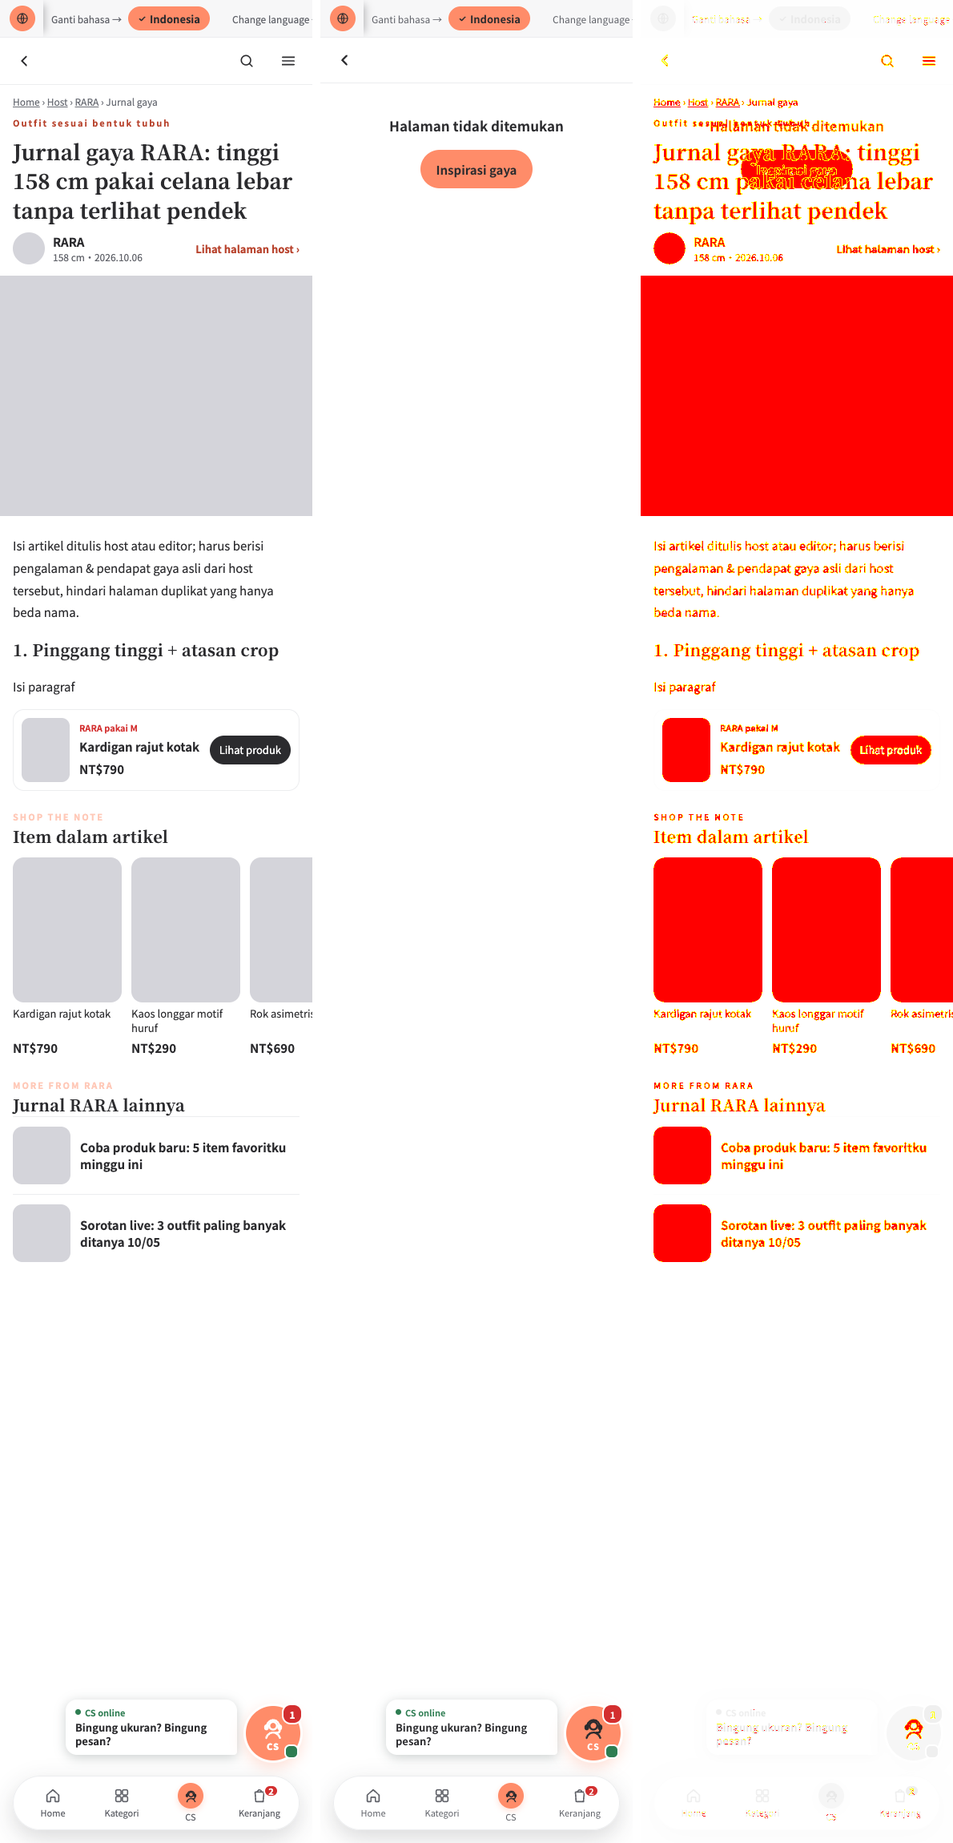
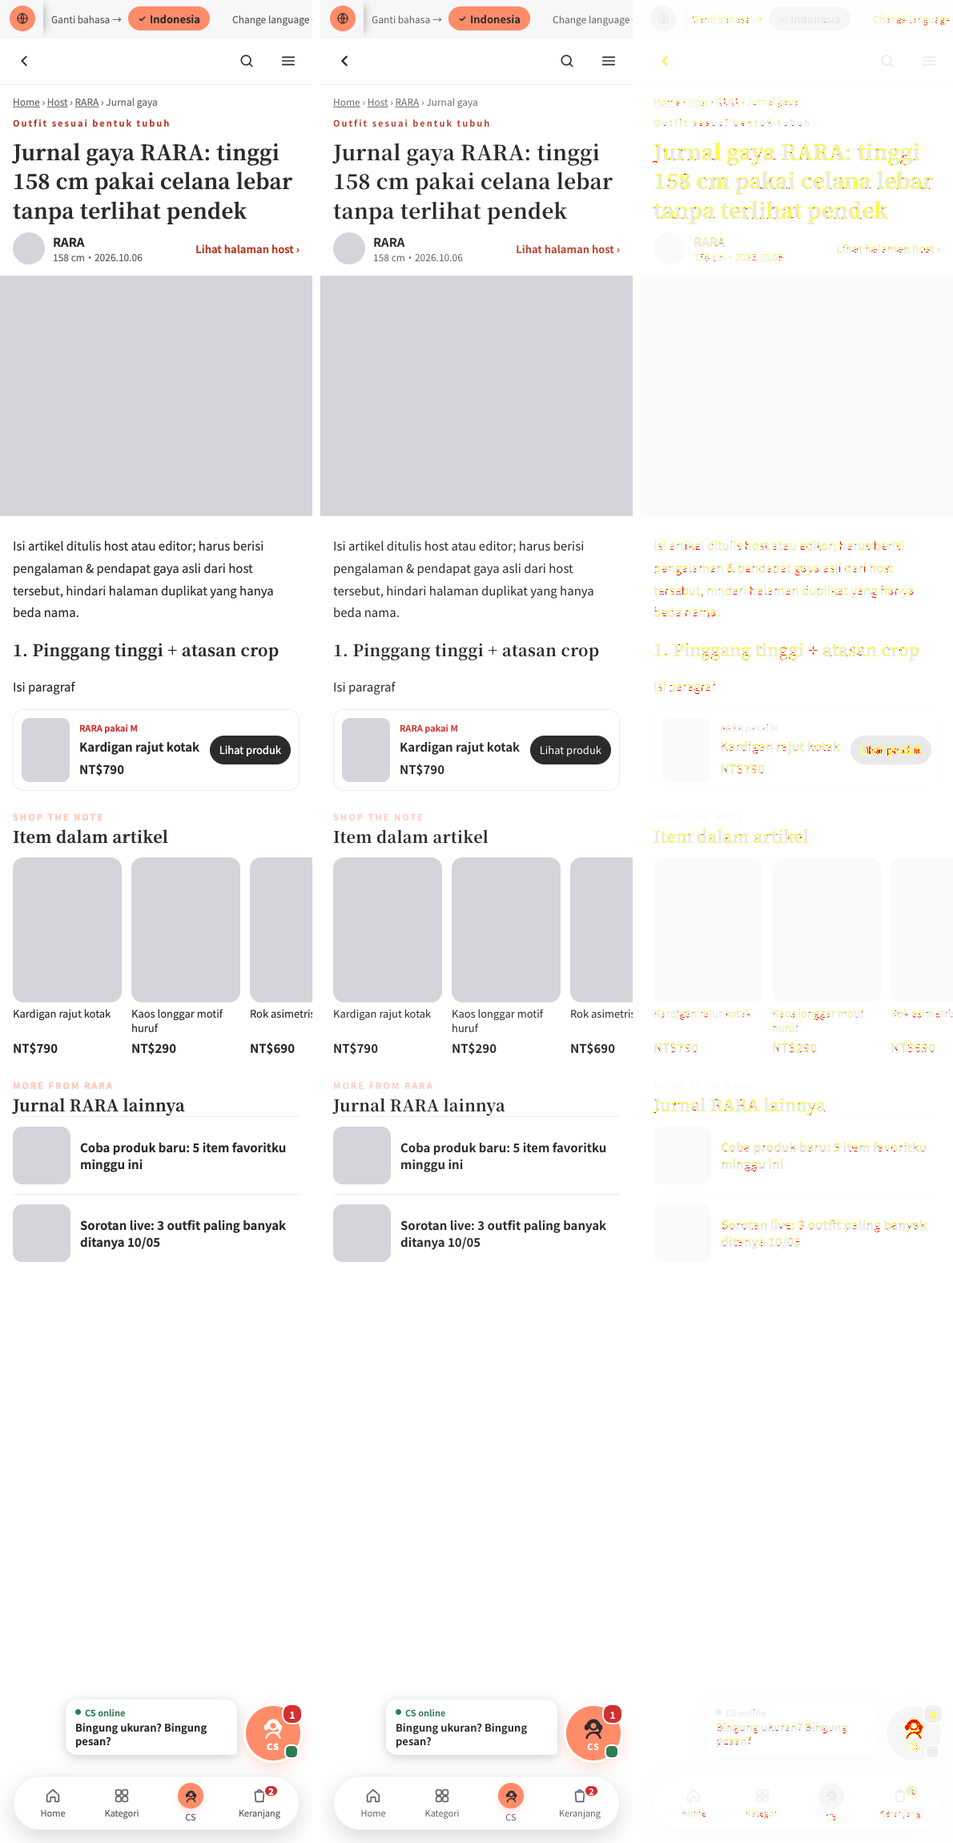
storefront

diff --git a/storefront/src/pages/Content.jsx b/storefront/src/pages/Content.jsx
@@ -11,7 +11,7 @@ import { ProductCard, StripCard } from '../components/ProductCard'
 import { EmptyState, ErrorState, iconBtn, PageHeader, SectionHead, Skeleton, btnPrimary } from '../components/ui'
 
 // Topic / article / host-journal page (artboards Topic / Article). Body = blocks {type: h2|h3|p|list|image|product|products|tags}.
-function Blocks({ blocks, products, topic, toc }) {
+function Blocks({ blocks, products, topic, toc, hostName }) {
   const { t } = useTranslation()
   const byId = Object.fromEntries(products.map((p) => [p.id, p]))
   let tocDone = false
@@ -19,7 +19,7 @@ function Blocks({ blocks, products, topic, toc }) {
     <>
       {blocks.map((b, i) => {
         const out = []
-        if (b.type === 'h2') out.push(<h2 key={i} id={`s${i}`} style={{ margin: topic ? 0 : '8px 0 0', fontSize: 20, fontWeight: 700 }}>{b.text}</h2>)
+        if (b.type === 'h2') out.push(<h2 key={i} id={`s${i}`} style={{ margin: topic || hostName ? 0 : '8px 0 0', fontSize: 20, fontWeight: 700, lineHeight: hostName ? 1.85 : undefined }}>{b.text}</h2>)
         else if (b.type === 'h3') out.push(<h3 key={i} style={{ margin: '8px 0 0', fontSize: 17 }}>{b.text}</h3>)
         else if (b.type === 'list') out.push(<ul key={i} style={{ margin: 0, paddingLeft: 20, lineHeight: 1.9 }}>{(b.items || []).map((x) => <li key={x}>{x}</li>)}</ul>)
         else if (b.type === 'image') out.push(
@@ -30,13 +30,13 @@ function Blocks({ blocks, products, topic, toc }) {
         else if (b.type === 'product' && byId[b.product_id]) {
           const p = byId[b.product_id]
           out.push(
-            <Link key={i} to={`/p/${p.id}`} style={{ display: 'flex', gap: 12, alignItems: 'center', padding: 10, borderRadius: 14, background: 'var(--color-surface)', border: '1px solid var(--color-border)', textDecoration: 'none', color: 'var(--color-text)' }}>
-              <img src={sized(img(p.image), 160)} alt={p.name} loading="lazy" onError={onImgError} style={{ width: 64, height: 84, borderRadius: 10, objectFit: 'cover' }} />
-              <span style={{ flex: 1, display: 'flex', flexDirection: 'column', gap: 3 }}>
-                <span style={{ fontSize: 11, color: 'var(--color-live)', fontWeight: 700 }}>{p.live_code ? t('product.live_code_badge', { code: p.live_code }) : t('style.shop_note')}</span>
+            <Link key={i} to={`/p/${p.id}`} style={{ lineHeight: hostName ? 1.85 : undefined, display: 'flex', gap: 12, alignItems: 'center', padding: 10, borderRadius: 14, background: 'var(--color-surface)', border: '1px solid var(--color-border)', textDecoration: 'none', color: 'var(--color-text)' }}>
+              <img src={sized(img(p.image), 160)} alt={hostName ? '' : p.name} loading="lazy" onError={onImgError} style={hostName ? { width: 60, height: 80, borderRadius: 10, objectFit: 'cover' } : { width: 64, height: 84, borderRadius: 10, objectFit: 'cover' }} />
+              <span style={{ flex: 1, display: 'flex', flexDirection: 'column', gap: hostName ? 0 : 3 }}>
+                <span style={{ fontSize: 11, color: 'var(--color-live)', fontWeight: 700 }}>{p.wear_size && hostName ? t('style.wears', { name: hostName, size: p.wear_size }) : p.live_code ? t('product.live_code_badge', { code: p.live_code }) : t('style.shop_note')}</span>
                 <b style={{ fontSize: 15 }}>{p.name}</b><span style={{ fontSize: 15, fontWeight: 700 }}>NT${Math.round(p.price).toLocaleString('en-US')}</span>
               </span>
-              <span style={{ flex: 'none', height: 36, padding: '0 14px', borderRadius: 18, background: 'var(--color-text)', color: '#FFFFFF', fontSize: 13, fontWeight: 700, display: 'flex', alignItems: 'center' }}>{t('style.view_product')}</span>
+              <span style={{ flex: 'none', ...(hostName ? { minHeight: 36, padding: '0 12px' } : { height: 36, padding: '0 14px', fontWeight: 700 }), borderRadius: 18, background: 'var(--color-text)', color: '#FFFFFF', fontSize: 13, display: 'flex', alignItems: 'center' }}>{t('style.view_product')}</span>
             </Link>)
         } else if (b.type === 'tags') out.push(<div key={i} style={{ display: 'flex', flexWrap: 'wrap', gap: 8, paddingTop: 4 }}>{(b.items || []).map((x) => <span key={x} style={tagPill}>#{x}</span>)}</div>)
         else out.push(<p key={i} style={{ margin: 0, fontSize: 15, lineHeight: 1.85, color: 'var(--color-text)', whiteSpace: 'pre-line' }}>{b.text}</p>)
@@ -81,7 +81,7 @@ export default function Content() {
   const href = (c) => (c.type === 'host_article' ? `/hosts/${c.author_slug}/journal/${c.slug}` : `/style/${c.slug}`)
   const dateDots = (iso) => fullDate(iso).replace(/\//g, '.')
   const isSaved = saved.has(page.slug)
-  const right = topic
+  const right = topic || hostArt
     ? <><Link to="/search" aria-label={t('common.search')} style={iconBtn}><IconSearch size={20} /></Link><Link to="/menu" aria-label={t('menu.title')} style={iconBtn}><IconMenu /></Link></>
     : <>
         <button type="button" aria-label={t('style.share')} onClick={() => navigator.share?.({ title: page.title, url: window.location.href }).catch(() => {})} style={{ ...iconBtn, border: 'none', background: 'none' }}><IconShare size={20} /></button>
@@ -89,19 +89,25 @@ export default function Content() {
       </>
   const eyebrowColor = topic ? 'var(--color-primary-strong)' : 'var(--color-secondary)'
   const catLine = (
-    <nav aria-label="Breadcrumb" style={{ padding: `12px ${px}px 0`, fontSize: 12, color: 'var(--color-disabled)' }}>
-      <Link to="/" style={{ color: 'var(--color-disabled)' }}>{t('style.home')}</Link> › {hostArt ? <Link to={`/hosts/${page.author_slug}`} style={{ color: 'var(--color-disabled)' }}>{page.author}</Link> : <Link to="/style" style={{ color: 'var(--color-disabled)' }}>{topic ? t('style.style_topics') : t('style.title')}</Link>}
-      {topic ? <> › {page.title.split(':')[0]}</> : <> › <Link to="/style" style={{ color: 'var(--color-disabled)' }}>{page.category_label}</Link></>}
+    <nav aria-label="Breadcrumb" style={{ padding: `12px ${px}px 0`, fontSize: 12, color: hostArt ? 'var(--color-text-3)' : 'var(--color-disabled)' }}>
+      {hostArt ? <><Link to="/" style={{ color: 'var(--color-text-3)' }}>{t('style.home')}</Link> › <Link to="/hosts" style={{ color: 'var(--color-text-3)' }}>{t('style.host')}</Link> › <Link to={`/hosts/${page.author_slug}`} style={{ color: 'var(--color-text-3)' }}>{page.author}</Link> › {t('style.journal')}</> : <><Link to="/" style={{ color: 'var(--color-disabled)' }}>{t('style.home')}</Link> › {hostArt ? <Link to={`/hosts/${page.author_slug}`} style={{ color: 'var(--color-disabled)' }}>{page.author}</Link> : <Link to="/style" style={{ color: 'var(--color-disabled)' }}>{topic ? t('style.style_topics') : t('style.title')}</Link>}
+      {topic ? <> › {page.title.split(':')[0]}</> : <> › <Link to="/style" style={{ color: 'var(--color-disabled)' }}>{page.category_label}</Link></>}</>}
     </nav>
   )
   return (
     <article>
-      {!desktop && <PageHeader title="" to={hostArt ? `/hosts/${page.author_slug}` : '/style'} right={right} height={topic ? 58 : 56} gap={topic ? 8 : 4} />}
+      {!desktop && <PageHeader title="" to={hostArt ? `/hosts/${page.author_slug}` : '/style'} right={right} height={topic || hostArt ? 58 : 56} gap={topic || hostArt ? 8 : 4} />}
       {catLine}
-      <header style={{ padding: `10px ${px}px 16px`, display: 'flex', flexDirection: 'column', gap: topic ? 8 : 10, maxWidth: desktop ? 820 : 'none', margin: desktop ? '0 auto' : 0 }}>
-        <span style={{ fontSize: 11, letterSpacing: 2, fontWeight: 700, color: eyebrowColor }}>{topic ? t('style.eyebrow_topic') : page.category_label}</span>
-        <h1 style={{ margin: 0, fontSize: desktop ? 34 : 26, fontWeight: 700, lineHeight: 1.35 }}>{page.title}</h1>
-        {topic
+      <header style={{ padding: `10px ${px}px ${hostArt ? 14 : 16}px`, display: 'flex', flexDirection: 'column', gap: topic ? 8 : 10, maxWidth: desktop ? 820 : 'none', margin: desktop ? '0 auto' : 0 }}>
+        <span style={{ fontSize: 11, letterSpacing: 2, fontWeight: 700, color: hostArt ? 'var(--color-primary-strong)' : eyebrowColor }}>{topic ? t('style.eyebrow_topic') : page.category_label}</span>
+        <h1 style={{ margin: 0, fontSize: desktop ? 34 : 26, fontWeight: 700, lineHeight: hostArt ? 1.4 : 1.35 }}>{page.title}</h1>
+        {hostArt ? (
+          <Link to={`/hosts/${page.author_slug}`} style={{ display: 'flex', alignItems: 'center', gap: 10, textDecoration: 'none', color: 'var(--color-text)' }}>
+            {d.hosts[0]?.avatar_url && <img src={sized(img(d.hosts[0].avatar_url), 80)} alt="" onError={onImgError} style={{ width: 40, height: 40, borderRadius: 20, objectFit: 'cover', objectPosition: '30% 15%' }} />}
+            <span style={{ display: 'flex', flexDirection: 'column' }}><b style={{ fontSize: 15 }}>{page.author}</b><span style={{ fontSize: 12, color: 'var(--color-text-2)' }}>{d.author_height_cm ? `${d.author_height_cm} cm・` : ''}{dateDots(page.published_at)}</span></span>
+            <span style={{ marginLeft: 'auto', fontSize: 13, fontWeight: 700, color: 'var(--color-primary-strong)' }}>{t('style.host_page')}</span>
+          </Link>
+        ) : topic
           ? <span style={{ fontSize: 12, color: 'var(--color-text-2)' }}>{dateDots(page.published_at)}{page.author ? `・${t('style.by', { name: page.author })}` : ''}{page.read_minutes ? `・${t('style.read_min', { n: page.read_minutes })}` : ''}</span>
           : (
             <div style={{ display: 'flex', alignItems: 'center', gap: 10, fontSize: 12, color: 'var(--color-text-2)' }}>
@@ -110,22 +116,22 @@ export default function Content() {
             </div>
           )}
       </header>
-      {page.cover_url && <img src={sized(img(page.cover_url), 1200)} alt={page.cover_alt || page.title} fetchpriority="high" onError={onImgError} style={{ width: '100%', height: topic ? 280 : 300, objectFit: 'cover', objectPosition: 'center 30%', display: topic ? 'inline' : 'block' }} />}
-      <div style={{ padding: `20px ${px}px 0`, display: 'flex', flexDirection: 'column', gap: 16, maxWidth: desktop ? 820 : 'none', margin: desktop ? '0 auto' : 0 }}>
+      {page.cover_url && <img src={sized(img(page.cover_url), 1200)} alt={page.cover_alt || page.title} fetchpriority="high" onError={onImgError} style={{ width: '100%', height: topic ? 280 : 300, objectFit: 'cover', objectPosition: 'center 30%', display: topic || hostArt ? 'inline' : 'block' }} />}
+      <div style={{ padding: `${hostArt ? 18 : 20}px ${px}px 0`, display: 'flex', flexDirection: 'column', gap: hostArt ? 14 : 16, maxWidth: desktop ? 820 : 'none', margin: desktop ? '0 auto' : 0 }}>
         {page.summary && !d.blocks.length && <p style={{ margin: 0, fontSize: 15, lineHeight: 1.85 }}>{page.summary}</p>}
-        <Blocks blocks={d.blocks} products={d.products} topic={topic} toc={toc} />
+        <Blocks blocks={d.blocks} products={d.products} topic={topic} toc={toc} hostName={hostArt ? page.author : ''} />
         {!topic && page.tags?.length > 0 && !d.blocks.some((b) => b.type === 'tags') && <div style={{ display: 'flex', flexWrap: 'wrap', gap: 8, paddingTop: 4 }}>{page.tags.map((x) => <Link key={x} to="/style" style={tagPill}>#{x}</Link>)}</div>}
       </div>
 
       {d.products.length > 0 && (
-        <section style={{ padding: `28px 0 0` }}>
-          <div style={{ padding: `0 ${px}px ${topic ? 14 : 0}px` }}>
+        <section style={{ padding: `${hostArt ? 24 : 28}px 0 0` }}>
+          <div style={{ padding: `0 ${px}px ${topic ? 14 : hostArt ? 12 : 0}px` }}>
             <div style={{ display: 'flex', alignItems: 'flex-end', justifyContent: 'space-between', gap: 12 }}>
-              <div style={{ display: 'flex', flexDirection: 'column', gap: 2 }}><span style={{ fontSize: 11, letterSpacing: 2, color: 'var(--color-secondary)', fontWeight: 700 }}>{topic ? 'SHOP THE TOPIC' : 'SHOP THE LOOK'}</span><h2 style={{ margin: 0, fontSize: 20, fontWeight: 700 }}>{hostArt ? t('style.shop_note') : topic ? t('style.shop_topic') : t('style.shop_look')}</h2></div>
-              <Link to="/products" style={{ flex: 'none', fontSize: 13, fontWeight: 500, color: 'var(--color-text)', textDecoration: 'none', padding: '6px 12px', border: '1px solid var(--color-border)', borderRadius: 16 }}>{t('style.see_all')}</Link>
+              <div style={{ display: 'flex', flexDirection: 'column', gap: 2 }}><span style={{ fontSize: 11, letterSpacing: 2, color: 'var(--color-secondary)', fontWeight: 700 }}>{hostArt ? 'SHOP THE NOTE' : topic ? 'SHOP THE TOPIC' : 'SHOP THE LOOK'}</span><h2 style={{ margin: 0, fontSize: 20, fontWeight: 700 }}>{hostArt ? t('style.shop_note') : topic ? t('style.shop_topic') : t('style.shop_look')}</h2></div>
+              {!hostArt && <Link to="/products" style={{ flex: 'none', fontSize: 13, fontWeight: 500, color: 'var(--color-text)', textDecoration: 'none', padding: '6px 12px', border: '1px solid var(--color-border)', borderRadius: 16 }}>{t('style.see_all')}</Link>}
             </div>
           </div>
-          {topic
+          {topic || hostArt
             ? <div className="no-scrollbar" style={{ display: 'flex', gap: 12, overflowX: 'auto', padding: `0 ${px}px 4px` }}>{d.products.map((p) => <StripCard key={p.id} p={p} />)}</div>
             : <div style={{ display: 'grid', gridTemplateColumns: `repeat(${desktop ? 5 : 2}, minmax(0, 1fr))`, gap: '16px 12px', padding: `14px ${px}px 0` }}>{d.products.map((p) => <ProductCard key={p.id} p={p} />)}</div>}
         </section>
@@ -143,17 +149,17 @@ export default function Content() {
         </section>
       )}
       {d.related.length > 0 && (
-        <section style={{ padding: `${topic ? 24 : 28}px ${px}px 0` }}>
+        <section style={{ padding: `${topic || hostArt ? 24 : 28}px ${px}px 0` }}>
           {topic
             ? <h2 style={{ margin: '0 0 6px', fontSize: 17, fontWeight: 700 }}>{t('style.other_topics')}</h2>
-            : <div style={{ display: 'flex', alignItems: 'flex-end', justifyContent: 'space-between', gap: 12 }}><div style={{ display: 'flex', flexDirection: 'column', gap: 2 }}><span style={{ fontSize: 11, letterSpacing: 2, color: 'var(--color-secondary)', fontWeight: 700 }}>RELATED</span><h2 style={{ margin: 0, fontSize: 20, fontWeight: 700 }}>{hostArt ? t('style.more_from', { name: page.author }) : t('style.related')}</h2></div></div>}
-          <div style={{ marginTop: topic ? 0 : 8 }}>
+            : <div style={{ display: 'flex', alignItems: 'flex-end', justifyContent: 'space-between', gap: 12 }}><div style={{ display: 'flex', flexDirection: 'column', gap: 2 }}><span style={{ fontSize: 11, letterSpacing: 2, color: 'var(--color-secondary)', fontWeight: 700 }}>{hostArt ? `MORE FROM ${page.author}` : 'RELATED'}</span><h2 style={{ margin: 0, fontSize: 20, fontWeight: 700 }}>{hostArt ? t('style.more_from', { name: page.author }) : t('style.related')}</h2></div></div>}
+          <div style={{ marginTop: topic || hostArt ? 0 : 8 }}>
             {d.related.map((c) => (
               <Link key={c.id} to={href(c)} style={{ display: 'flex', gap: 12, alignItems: 'center', padding: '12px 0', borderTop: '1px solid var(--color-border)', textDecoration: 'none', color: 'var(--color-text)' }}>
                 <img src={sized(img(c.cover_url), 160)} alt="" loading="lazy" onError={onImgError} style={{ width: 72, height: 72, borderRadius: 12, objectFit: 'cover' }} />
                 {topic
                   ? <span style={{ display: 'flex', flexDirection: 'column', gap: 2 }}><b style={{ fontSize: 15 }}>{c.title}</b><span style={{ fontSize: 12, color: 'var(--color-text-2)' }}>{c.summary}</span></span>
-                  : <span style={{ flex: 1, display: 'flex', flexDirection: 'column', gap: 3 }}><span style={{ fontSize: 11, fontWeight: 700, color: 'var(--color-secondary)' }}>{c.category_label}</span><b style={{ fontSize: 15, lineHeight: 1.45 }}>{c.title}</b></span>}
+                  : hostArt ? <b style={{ fontSize: 15 }}>{c.title}</b> : <span style={{ flex: 1, display: 'flex', flexDirection: 'column', gap: 3 }}><span style={{ fontSize: 11, fontWeight: 700, color: 'var(--color-secondary)' }}>{c.category_label}</span><b style={{ fontSize: 15, lineHeight: 1.45 }}>{c.title}</b></span>}
               </Link>
             ))}
           </div>

diff --git a/storefront/src/i18n/parts/parity.js b/storefront/src/i18n/parts/parity.js
@@ -37,7 +37,7 @@ export default {
     product: { wa_title: 'Tanya produk ini via WhatsApp', wa_hint: 'Produk sudah terisi, tekan "Buka WhatsApp" lalu langsung kirim', wa_note: 'Gambar produk muncul otomatis dari pratinjau link.' },
     checkout: { c_title: 'Pilih kupon', c_auto: 'Otomatis memilih potongan terbesar', c_pay_after: 'Bayar setelah potongan', c_apply_btn: 'Terapkan', c_none: 'Tanpa kupon', c_have_code: 'Punya kode kupon?', c_min: 'min. {{amount}}', c_short: 'Kurang {{amount}} untuk memakai' },
     host: { tonight: '23:59 malam ini', tag_live: 'Live {{name}}', tag_special: 'Khusus {{name}}', tag_pick: 'Rekomendasi {{name}}', discussing: 'Sedang dibahas', preview_alt: 'Gambar preview live', preview_tap: 'Klik untuk ke live TikTok', by: 'by {{name}}' },
-    style: { share: 'Bagikan', save: 'Simpan artikel' },
+    style: { host: 'Host', journal: 'Jurnal gaya', wears: '{{name}} pakai {{size}}', share: 'Bagikan', save: 'Simpan artikel' },
     live: { host_wears: 'Host sedang pakai', perk_line: 'Tonton live dapat kupon {{amount}}', code_label: 'Kode live', claim_ph: 'Masukkan kode live' },
     hosts: { search: 'Cari nama host, mis. RARA', today: 'Live hari ini', replay: 'Ada replay', more_items: '+{{n}} item', search_aria: 'Cari host' },
     search: { placeholder_input: 'Cari produk atau host', worn_by: 'yang sedang dipakai {{name}}', enter_live: 'Masuk live', see_outfit: 'Lihat outfit-nya', articles_of: 'Artikel・Jurnal gaya {{name}}' },
@@ -98,7 +98,7 @@ export default {
     product: { wa_title: 'Ask about this product on WhatsApp', wa_hint: 'The product is filled in, tap "Open WhatsApp" and send', wa_note: 'The product image appears automatically from the link preview.' },
     checkout: { c_title: 'Choose a coupon', c_auto: 'Picks the biggest discount automatically', c_pay_after: 'Pay after discount', c_apply_btn: 'Apply', c_none: 'No coupon', c_have_code: 'Have a coupon code?', c_min: 'min. {{amount}}', c_short: '{{amount}} short to use it' },
     host: { tonight: '23:59 tonight', tag_live: 'Live {{name}}', tag_special: 'Only {{name}}', tag_pick: '{{name}} recommends', discussing: 'Now discussing', preview_alt: 'Live preview image', preview_tap: 'Tap to open the TikTok live', by: 'by {{name}}' },
-    style: { share: 'Share', save: 'Save article' },
+    style: { host: 'Hosts', journal: 'Style journal', wears: '{{name}} wears {{size}}', share: 'Share', save: 'Save article' },
     live: { host_wears: 'Host is wearing', perk_line: 'Watch live, get a {{amount}} coupon', code_label: 'Live code', claim_ph: 'Enter live code' },
     hosts: { search: 'Search host name, e.g. RARA', today: 'Live today', replay: 'Has replay', more_items: '+{{n}} items', search_aria: 'Search hosts' },
     search: { placeholder_input: 'Search products or hosts', worn_by: 'worn by {{name}}', enter_live: 'Join live', see_outfit: 'See her outfit', articles_of: 'Articles・{{name}} style journal' },
@@ -159,7 +159,7 @@ export default {
     product: { wa_title: '用 WhatsApp 詢問此商品', wa_hint: '商品資訊已帶入，按「開啟 WhatsApp」直接送出', wa_note: '商品圖片會由連結預覽自動顯示。' },
     checkout: { c_title: '選擇優惠券', c_auto: '自動選擇折扣最大的', c_pay_after: '折扣後應付', c_apply_btn: '套用', c_none: '不使用優惠券', c_have_code: '有優惠碼？', c_min: '滿 {{amount}}', c_short: '還差 {{amount}} 才能使用' },
     host: { tonight: '今晚 23:59', tag_live: '{{name}} 直播', tag_special: '{{name}} 專屬', tag_pick: '{{name}} 推薦', discussing: '正在介紹', preview_alt: '直播預覽圖', preview_tap: '點擊前往 TikTok 直播', by: 'by {{name}}' },
-    style: { share: '分享', save: '收藏文章' },
+    style: { host: '主播', journal: '穿搭日誌', wears: '{{name}} 穿 {{size}}', share: '分享', save: '收藏文章' },
     live: { host_wears: '主播正在穿', perk_line: '看直播領 {{amount}} 優惠券', code_label: '直播碼', claim_ph: '輸入直播碼' },
     hosts: { search: '搜尋主播名稱，例：RARA', today: '今日直播', replay: '有重播', more_items: '+{{n}} 件', search_aria: '搜尋主播' },
     search: { placeholder_input: '搜尋商品或主播', worn_by: '{{name}} 穿過', enter_live: '進入直播', see_outfit: '看她的穿搭', articles_of: '文章・{{name}} 穿搭日誌' },

diff --git a/backend/internal/handlers/site_content.go b/backend/internal/handlers/site_content.go
@@ -162,8 +162,12 @@ func (h *SiteHandler) ContentGet(w http.ResponseWriter, r *http.Request) {
 		related = h.contentCards(ctx, lang, `c.id <> $1 AND c.type = 'host_article' AND c.author_host_id = $2`, []interface{}{card.ID, *authorHost}, 4)
 	}
 
+	var authorHeight *int
+	if authorHost != nil {
+		h.DB.QueryRow(ctx, `SELECT height_cm FROM hosts WHERE id=$1`, *authorHost).Scan(&authorHeight)
+	}
 	respondJSON(w, http.StatusOK, map[string]interface{}{
-		"page": card, "blocks": blocks, "products": products, "categories": cats, "hosts": hosts, "related": related,
+		"author_height_cm": authorHeight, "page": card, "blocks": blocks, "products": products, "categories": cats, "hosts": hosts, "related": related,
 		"seo": map[string]interface{}{
 			"title": pickLang(seoTitle, lang), "description": pickLang(seoDesc, lang), "canonical": canonical, "index": indexed,
 		},

diff --git a/scripts/parity/README.md b/scripts/parity/README.md
@@ -15,5 +15,9 @@ Matched (≤ budget, identical text): Main, Language, Menu, Login*, Service, Mem
 Search*, Category, ProductList*, Cart, ZH_* (Info … Success, 15), Journal, Topic, Article* (top part), Live, Hosts*, HostBrand (top 1500px), Product_v2 (top part),
 WA_Handoff*, Coupon_Apply* (* = documented deviations in manifest.mjs: pay-at-store, no LINE, no data for ETA / replay length, placeholder logos).
 
-Not matched yet: Desktop_Home / Desktop_Host / Desktop_Product, Host_Live / Host_Offline / Host_States / Hosts_States, HostArticle,
-Product_Video, Product (mid sections), DL_* pieces. Legacy variants superseded by ZH_* / HostBrand / Product_v2: Checkout, OrderSuccess, Product.
+HostArticle also matches (0.2%).
+
+Not matched: Desktop_Home / Desktop_Host / Desktop_Product (the desktop artboards drop the text navigation from the header and use another grid;
+needs a product decision before changing the desktop shell), Product_Video, Host_States / Hosts_States (state matrices), DL_* pieces.
+Host_Live / Host_Offline are older status-based host layouts, superseded by HostBrand (which already has the live block).
+Legacy variants superseded by ZH_* / HostBrand / Product_v2: Checkout, OrderSuccess, Product.

diff --git a/scripts/parity/out/report.md b/scripts/parity/out/report.md
@@ -1,7 +1,10 @@
 # Parity report
 
-1 / 1 artboards within 0.5% pixel diff and identical text.
+4 / 4 artboards within 0.5% pixel diff and identical text.
 
 | Artboard | Pixel diff | Missing text | Extra text | Errors |
 |---|---|---|---|---|
+| ✅ Topic | 0.38% | 0 | 0 | 0 |
+| ✅ HostBrand | 0.33% | 0 | 0 | 0 |
+| ✅ HostArticle | 0.21% | 0 | 0 | 0 |
 | ✅ Article | 2.00% | 0 | 0 | 0 |
